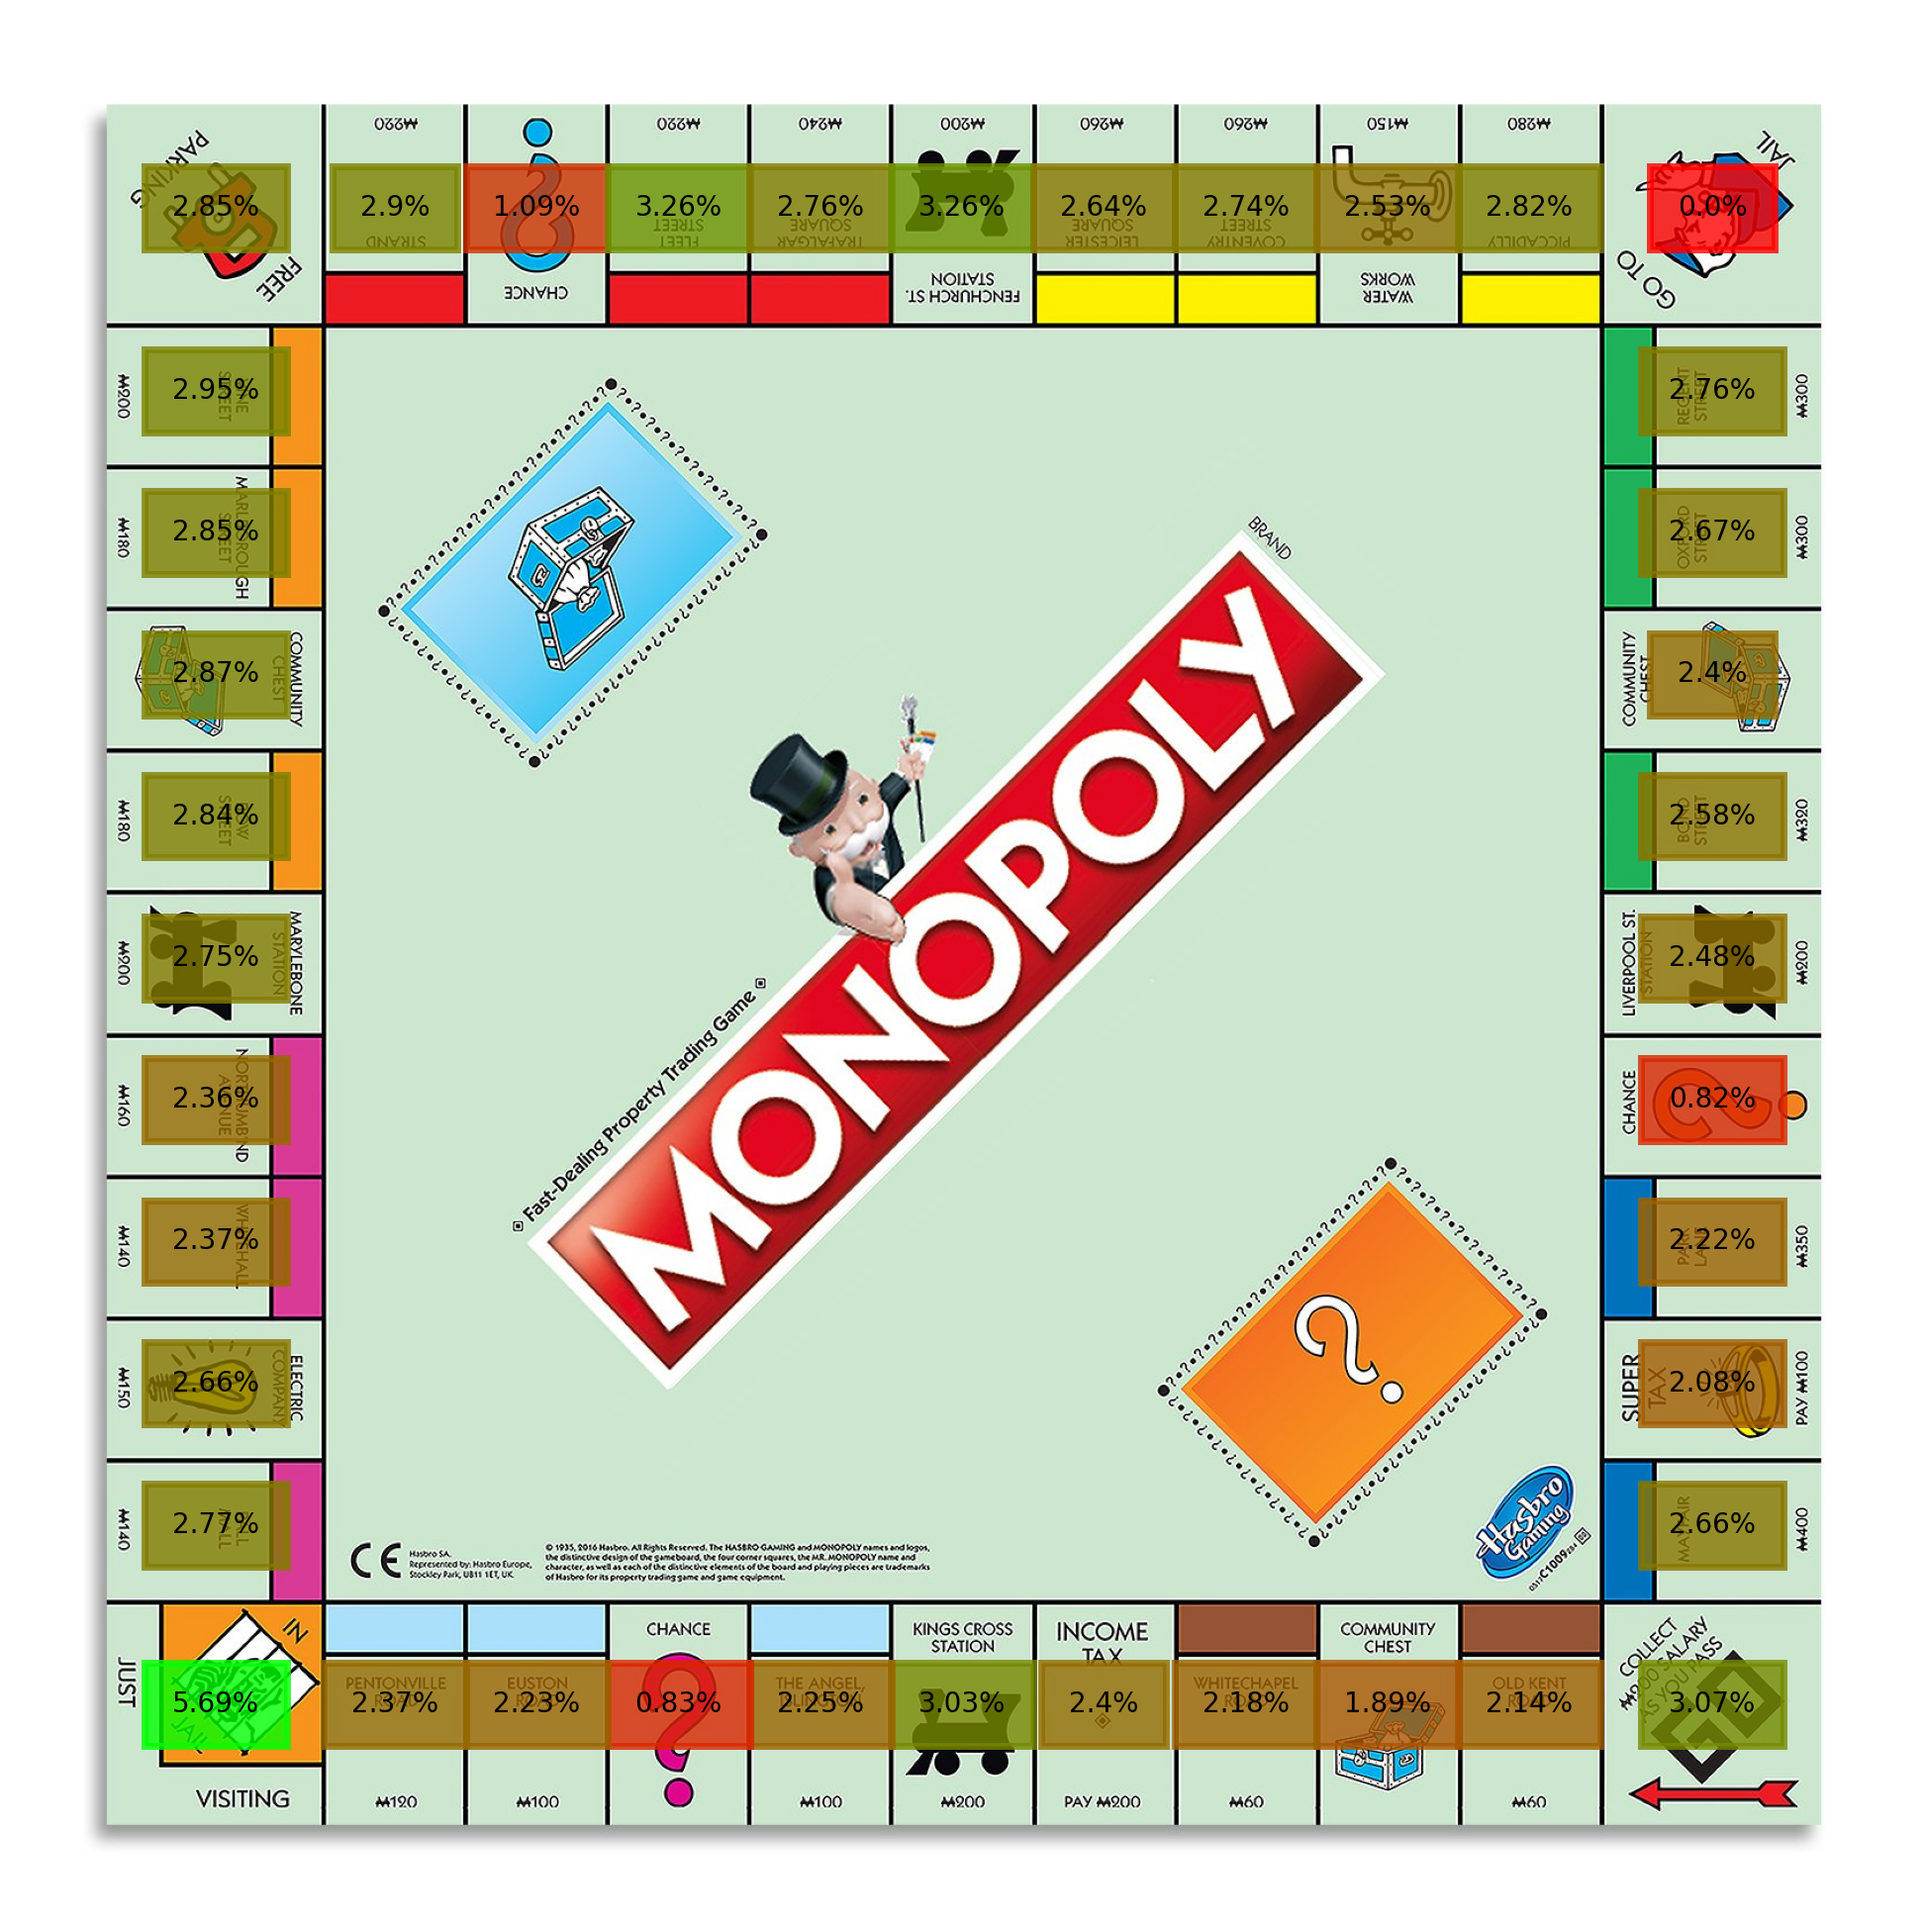
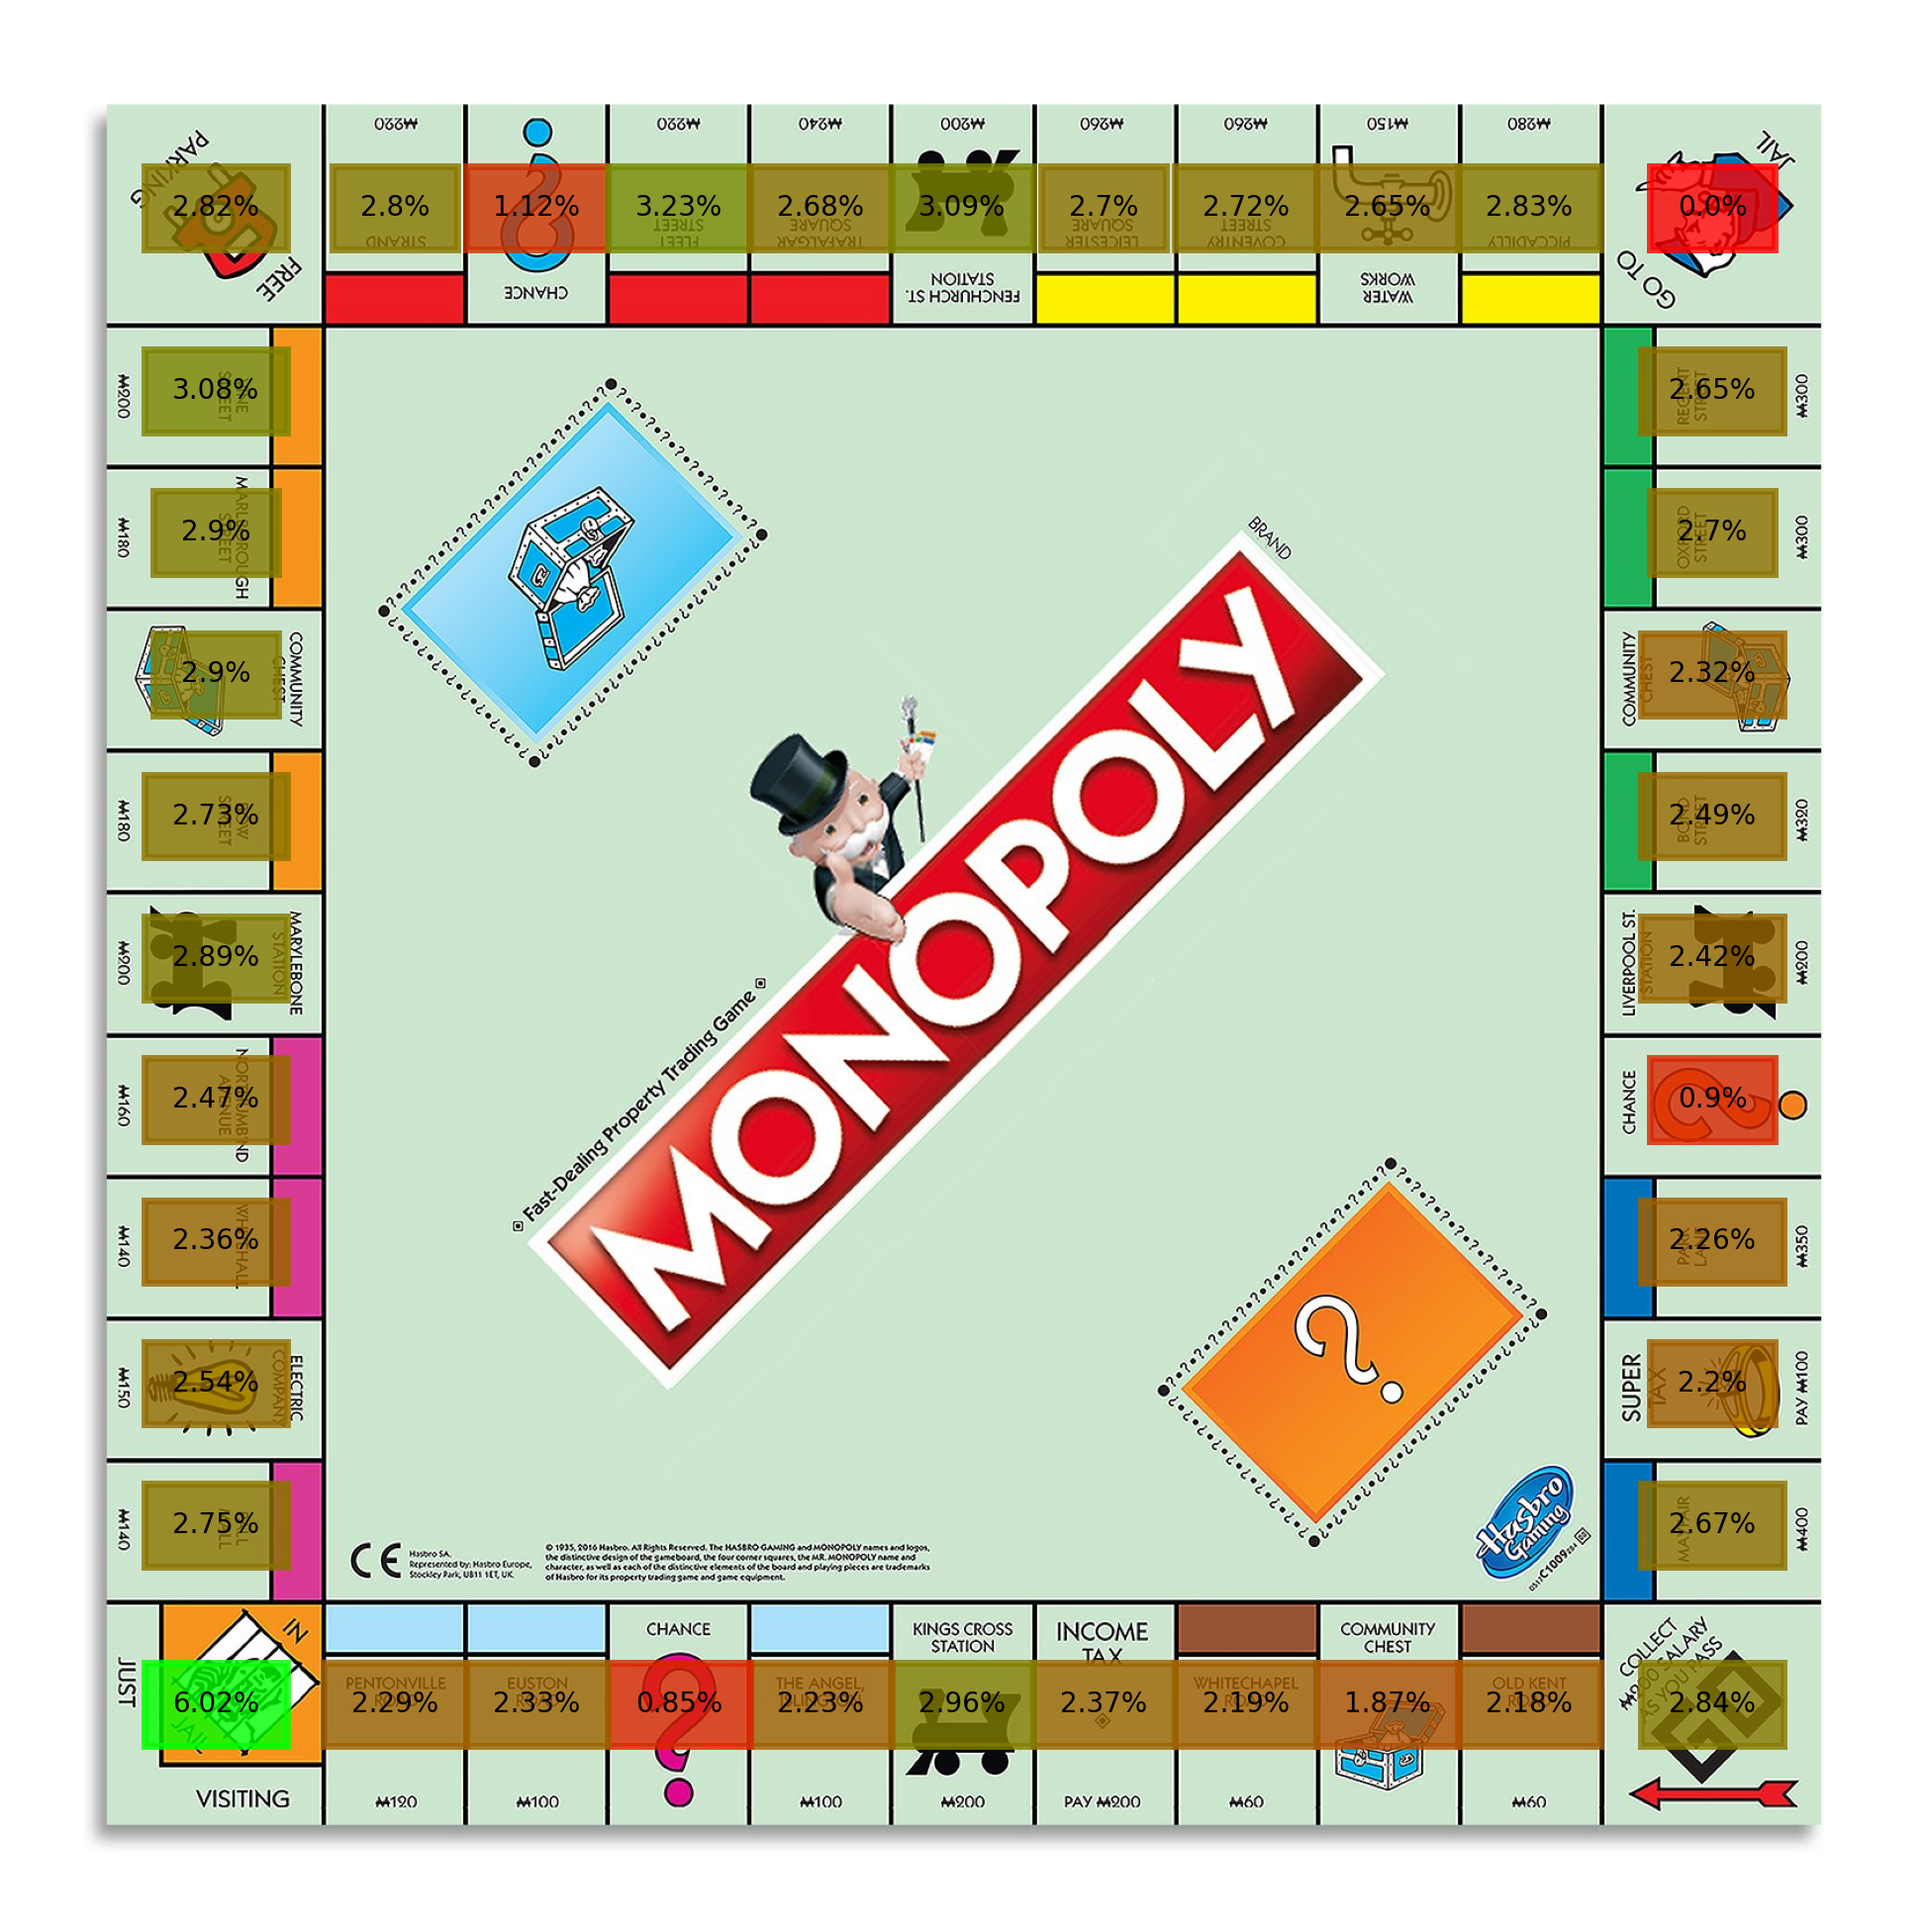
Update (Including some plots)

diff --git a/contents/scripts/heatmap.py b/contents/scripts/heatmap.py
@@ -1,7 +1,21 @@
 import numpy as np
 import matplotlib.pyplot as plt
-
+import imageio
+import os
+browns = np.array([1, 3])
+lblues = np.array([6, 8, 9])
+purples = np.array([11, 13, 14])
+oranges = np.array([16, 18, 19])
+reds = np.array([21, 23, 24])
+yellows = np.array([26, 27, 29])
+greens = np.array([31, 32, 34])
+blues = np.array([37, 39])
+ 
+doubles = 0
 def densityPlot(density, sname, printPilon, pilonSquare):
+    
+    
+    
     plt.clf()
     boardImg = plt.imread("../article_raw/images/board.jpg")
     plt.imshow(boardImg, extent=[0,1,0,1])
@@ -50,107 +64,154 @@ def densityPlot(density, sname, printPilon, pilonSquare):
     
     if printPilon:
        plt.scatter(x = squareCenters[pilonSquare][0], y = squareCenters[pilonSquare][1], s = 100, c = "red")
-    plt.savefig("../article_raw/images/" + sname, dpi = 500, bbox_inches = 'tight')
-   
-   
-def freqPlot(squareList, sname):
-    namelist = ["Go", "Mediterranean Avenue", "Community Chest #1", "Baltic Avenue", "Income Tax", "Reading Railroad", "Oriental Avenue", "Chance #1", "Vermont Avenue", "Conneticut Avenue", "Just visiting / In jail", "St. Charles Place", "Electric Company", "States Avenue"]
-    
-    plt.clf()
-    
-    plt.hist(squareList, density = True, bins = range(40), align = 'mid', rwidth = 0.9)
-    
-    for i in range(39):
-        t = plt.t(namelist[i], xy=(i,0), rotation = 90)
-    
-    plt.savefig("../article_raw/images/" + sname, dpi = 500)
-   
+    plt.savefig("../article_raw/images/" + sname, dpi = 500, bbox_inches = 'tight') 
     
 def simulateThrowOnPos(position, nSims):
     print("Simulating a throw from position ", position, "...")
     initPos = position
     freqList = np.zeros(40)
+    global doubles
+    
     for i in range(nSims):
         dies = np.random.randint(low = 1, high = 7, size =2)
         newPosition = position + dies.sum()
         newPosition = newPosition%40
-        print("Thew a ", dies.sum(), ". Going to ", newPosition)
+        print("Die roll: ", dies)
+        if dies[1]==dies[0]:
+            doubles += 1
+            print("Threw double!")
         
-        if newPosition == 30 : 
-            print("Landed on 30, Go to jail :(")
-            newPosition = 10 # Go To Jail
-        if newPosition == 7 or newPosition == 22 or newPosition == 36:   # Chance card
-            print("Chance card!")
+        else:
+            doubles = 0
+         
+        if doubles == 3:
+            print("Threw double three times. On to jail!")
+            inJail = True
+            jailTries = 0
+            doubles = 0
+            newPosition = 10
+        else:  
+            
+            print("Thew a ", dies.sum(), ". Going to ", newPosition)
+            
+            if newPosition == 30 : 
+                print("Landed on 30, Go to jail :(")
+                newPosition = 10 # Go To Jail
+            if newPosition == 7 or newPosition == 22 or newPosition == 36:   # Chance card
+                print("Chance card!")
+            
+                pickedCard = np.random.randint(low = 1, high = 17)
+                if pickedCard == 1 :
+                    print("Go to boardwalk")
+                    newPosition = 39 # Go To Boardwalk
+                elif pickedCard == 2 : 
+                    print("Go to start")
+                    newPosition = 0 # Go To Start
+                elif pickedCard == 3 :
+                    print("Go to illinois aveneu")
+                    newPosition = 23 
+                elif pickedCard == 4 : 
+                    print(" Go To Saint Charle's place")
+                    newPosition = 11 # Go To Saint Charle's place
+                elif pickedCard == 5 or pickedCard == 6 :
+                    print("Go to nearest station")
+                    stationarray = np.asarray([5, 15, 25, 35])
+                    if newPosition > 35 : newPosition = 5
+                    elif newPosition > 25 : newPosition = 35
+                    elif newPosition > 15 : newPosition = 25
+                    elif newPosition > 5 : newPosition = 15
+                elif pickedCard == 7 :
+                    if newPosition > 29 or newPosition < 12 : 
+                        print("Head to water mains")
+                        newPosition = 12
+                    if newPosition < 29 and newPosition > 12 :
+                        print("Head to electricity company")
+                        newPosition = 29
+                elif pickedCard == 10 : 
+                    print("Go back 3 spots!")
+                    newPosition -= 3
+                elif pickedCard == 11 : 
+                    print("Picked jail card :(")
+                    newPosition = 10
+                elif pickedCard == 14 :
+                    print("Go to Station")
+                    newPosition = 5
+                else:
+                    print("Money related chance card...")
+            if newPosition == 2 or newPosition == 33:
+                print("community card")
+                pickedCard = np.random.randint(low = 1, high = 17)
+                if pickedCard == 1:
+                    print("Go to start")
+                    newPosition = 0
+                elif pickedCard == 2:
+                    print("Go to jail")
+                    newPosition = 10
+                else:
+                    print("Money related community card")
         
-            pickedCard = np.random.randint(low = 1, high = 17)
-            if pickedCard == 1 :
-                print("Go to boardwalk")
-                newPosition = 39 # Go To Boardwalk
-            elif pickedCard == 2 : 
-                print("Go to start")
-                newPosition = 0 # Go To Start
-            elif pickedCard == 3 :
-                print("Go to illinois aveneu")
-                newPosition = 23 
-            elif pickedCard == 4 : 
-                print(" Go To Saint Charle's place")
-                newPosition = 11 # Go To Saint Charle's place
-            elif pickedCard == 5 or pickedCard == 6 :
-                print("Go to nearest station")
-                stationarray = np.asarray([5, 15, 25, 35])
-                if newPosition > 35 : newPosition = 5
-                elif newPosition > 25 : newPosition = 35
-                elif newPosition > 15 : newPosition = 25
-                elif newPosition > 5 : newPosition = 15
-            elif pickedCard == 7 :
-                if newPosition > 29 or newPosition < 12 : 
-                    print("Head to water mains")
-                    newPosition = 12
-                if newPosition < 29 and newPosition > 12 :
-                    print("Head to electricity company")
-                    newPosition = 29
-            elif pickedCard == 10 : 
-                print("Go back 3 spots!")
-                newPosition -= 3
-            elif pickedCard == 11 : 
-                print("Picked jail card :(")
-                newPosition = 10
-            elif pickedCard == 14 :
-                print("Go to Station")
-                newPosition = 5
-            else:
-                print("Money related chance card...")
-        if newPosition == 2 or newPosition == 33:
-            print("community card")
-            pickedCard = np.random.randint(low = 1, high = 17)
-            if pickedCard == 1:
-                print("Go to start")
-                newPosition = 0
-            if pickedCard == 2:
-                print("Go to jail")
-                newPosition = 10
         freqList[newPosition] += 1
+        
         if(nSims == 1):
             return(newPosition)
     
     freqList /= freqList.sum()
     return(freqList)
 
-nSims = 40000
+nSims = 2000
+filelist = [None]*nSims
 feqList = np.zeros(40)
-posPlot = np.zeros(nSims)
+posPlot = np.array([])
 currentPos = 0
-
 for i in range(nSims):
+    print(i)
+    plt.clf()
+    plt.ylim(0,0.07)
+    plt.annotate("Turn" + str(i) + "/" + str(nSims), (39, 0.07))
     currentPos = simulateThrowOnPos(currentPos, 1)
-    posPlot[i] = currentPos
     feqList[currentPos] += 1
+    posPlot = np.append(posPlot, currentPos)
+    N, bins, patches = plt.hist(posPlot, density = True, rwidth = 0.9, bins = range(41), align='mid')
+    for j in range(40):
+        patches[j].set_facecolor('grey')
+    for j in browns:
+        patches[j].set_facecolor('brown')
+    for j in lblues:
+        patches[j].set_facecolor('#AAAAFF')
+    for j in purples:
+        patches[j].set_facecolor('purple')
+    for j in oranges:
+        patches[j].set_facecolor('orange')
+    for j in reds:
+        patches[j].set_facecolor('red')
+    for j in yellows:
+        patches[j].set_facecolor('yellow')
+    for j in greens:
+        patches[j].set_facecolor('green')
+    for j in blues:
+        patches[j].set_facecolor('blue')
+    namelist = ["Go", "Old Kent Road", "Community Chest 1", "Whitechapel Road", "Income Tax", "Kings Cross Station", "The Angel, Islington", "Chance 1", "Euston Road", "Pentonville Road", "In jail / Just Visiting", "Pall Mall", "Electric Company", "Whitehall", "Norththumb'nd Avenue", "Marylebone Station", "Bow Street", "Community Chest 2", "Marlborough Street", "Vine Street", "Free Parking", "Strand", "Chance 2", "Fleet Street", "Trafalgar Square", "Fenchurch St. Station", "Leicester Square", "Coventry Street", "Water Works", "Piccadilly", "Go To Jail", "Regent Street", "Oxford Street", "Community Chest 3", "Bond Street", "Liverpool St. Station", "Chance 3", "Park Lane", "Super Tax", "Mayfair"]
+    for j in range(40):
+        plt.annotate(namelist[j], (j+0.2, 0.001), fontsize = 8, rotation = 90, horizontalalignment = 'left')
     
-feqList /= feqList.sum()    
-densityPlot(feqList, "overall.png", False, 0)
+    filelist[i] = "hist" + str(i)+".png"
+    plt.savefig(filelist[i])
+    plt.close()
 
-for i in range(40):
-    densityPlot(simulateThrowOnPos(i, 5000), str(i)+".png", True, i)
+images = []  
+for filename in filelist:
+    images.append(imageio.imread(filename))
+    os.remove(filename)
+
+imageio.mimsave('histGif.gif', images)
+
+feqList /= feqList.sum()    
+
+
+#densityPlot(feqList, "overall.png", False, 0)
+
+#for i in range(40):
+#    densityPlot(simulateThrowOnPos(i, 5000), str(i)+".png", True, i)
 
 
 
